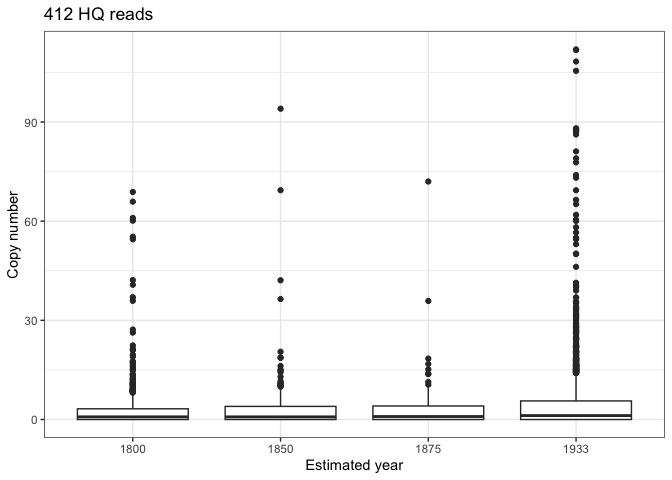
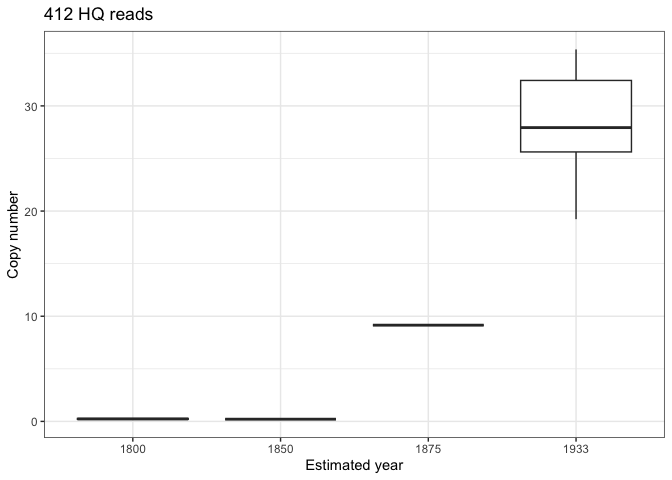
Update

diff --git a/2023_05_09_Analysis/2023_05_09_Invasions_1800_analysis.md b/2023_05_09_Analysis/2023_05_09_Invasions_1800_analysis.md
@@ -136,7 +136,7 @@ plot(gg_412_all)
 ![](2023_05_09_Invasions_1800_analysis_files/figure-gfm/unnamed-chunk-4-3.png)<!-- -->
 
 ``` r
-gg_412_HQ <- ggplot(df_museum, aes(x=as.factor(estimated_year), y=HQ_reads)) + 
+gg_412_HQ <- ggplot(df_museum_412, aes(x=as.factor(estimated_year), y=HQ_reads)) + 
   geom_boxplot() +
   labs(title = "412 HQ reads")+
   xlab("Estimated year") +
@@ -228,12 +228,12 @@ plot(gg_OPUS_all)
 ![](2023_05_09_Invasions_1800_analysis_files/figure-gfm/unnamed-chunk-4-11.png)<!-- -->
 
 ``` r
-gg_OPUS_HQ <- ggplot(df_museum_GYPSY2, aes(x=as.factor(estimated_year), y=HQ_reads)) + 
+gg_GYPSY_HQ <- ggplot(df_museum_GYPSY2, aes(x=as.factor(estimated_year), y=HQ_reads)) + 
   geom_boxplot() +
-  labs(title = "TIRANT HQ reads")+
+  labs(title = "GYPSY HQ reads")+
   xlab("Estimated year") +
   ylab("Copy number")
-plot(gg_OPUS_HQ)
+plot(gg_GYPSY_HQ)
 ```
 
 ![](2023_05_09_Invasions_1800_analysis_files/figure-gfm/unnamed-chunk-4-12.png)<!-- -->
